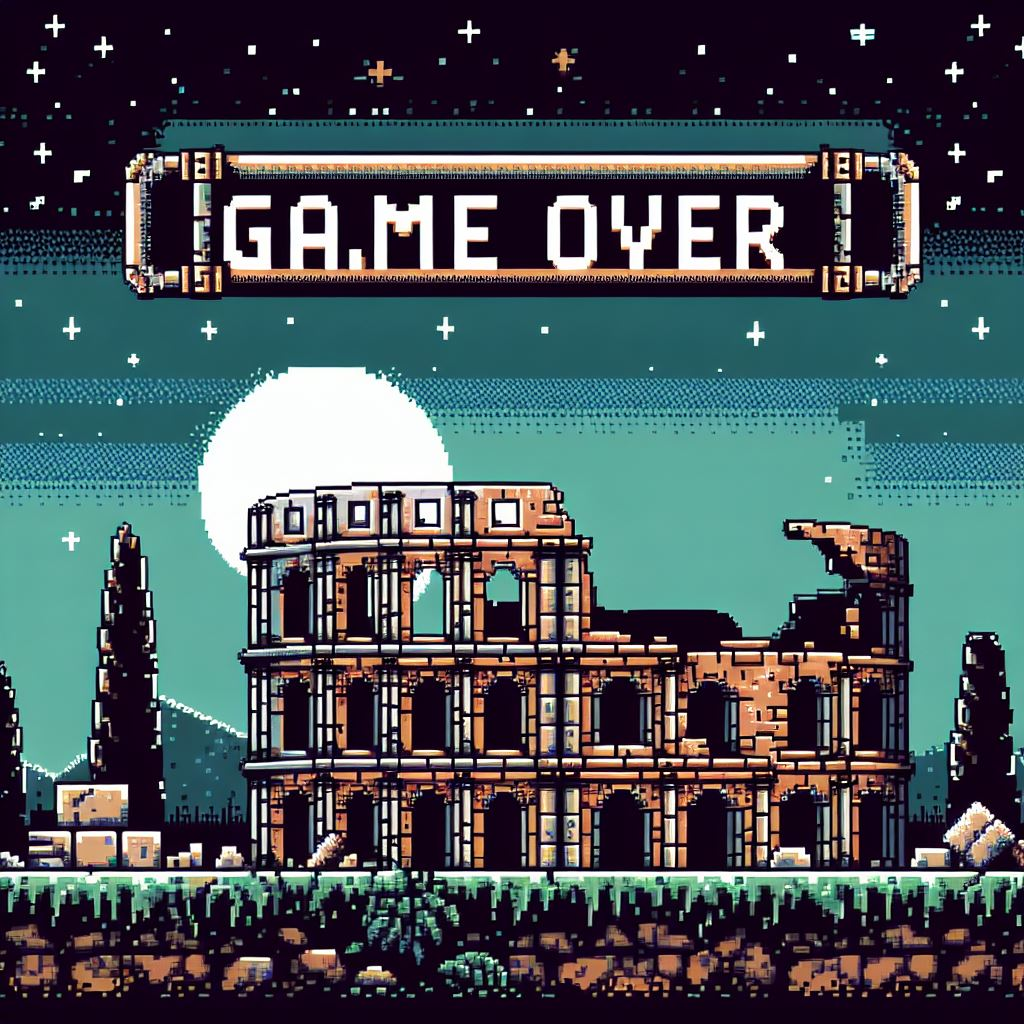
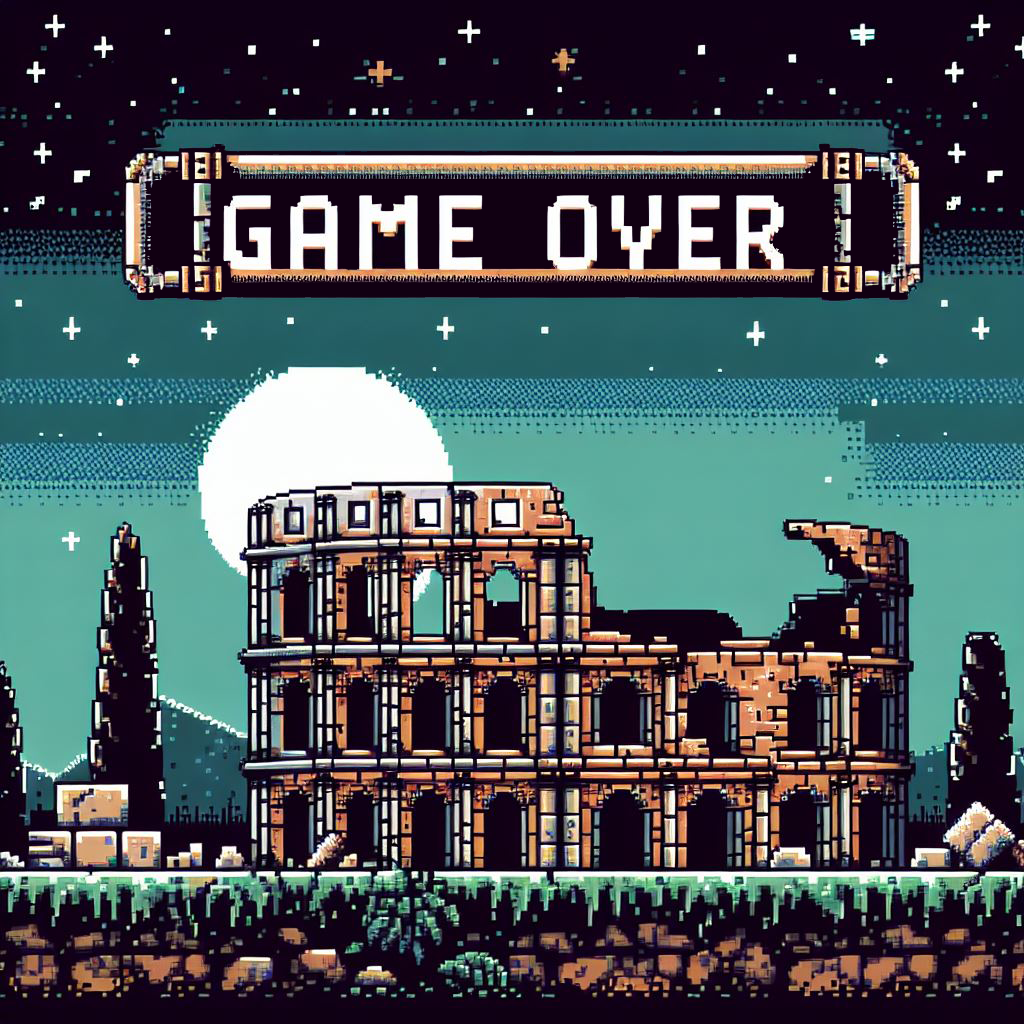
gameoverpane

Changed region(s): [[0.3438, 0.1875, 0.5, 0.2812]]

diff --git a/src/application/Main.java b/src/application/Main.java
@@ -5,6 +5,7 @@ import javafx.stage.Stage;
 import java.util.ArrayList;
 import java.util.List;
 
+import SPane.GameOverPane;
 import SPane.StartPane;
 import SPane.TurnBasePane;
 import javafx.application.Application;
@@ -18,22 +19,6 @@ import enemy.IceQueen;
 
 
 public class Main extends Application{
-	/*private HashMap<KeyCode,Boolean> keys = new HashMap<KeyCode,Boolean>();
-	private Pane appRoot = new Pane();
-	private Pane gameRoot = new Pane();
-	private Pane uiRoot = new Pane();
-	private boolean isJump;
-	private Node player;
-	private int levelWidth;
-	private Node Door;
-	private int Score;
-	private Text Score_on_screne;
-	private ArrayList<Node> platform = new ArrayList<Node>();
-	private ArrayList<ArrayList<Node>> UI = new ArrayList<ArrayList<Node>>();
-	private Point2D playerVelocity = new Point2D(0,0);
-	private int Round = 0;
-	private int temp_hp = 3;//*/
-
 	public void start(Stage primaryStage)  throws Exception {
 		/*
 		StartPane startPane = (StartPane) StartPane.getPane();
@@ -47,7 +32,7 @@ public class Main extends Application{
         // Request focus for the StartPane
         startPane.requestFocus();
         */
-		
+		/*
 		Player player = new Knight();
 		List<Enemy> enemies = new ArrayList<Enemy>();
 		Enemy BeastMaster = new BeastMaster();
@@ -63,209 +48,27 @@ public class Main extends Application{
         primaryStage.setScene(turnbaseScene);
         primaryStage.show();
         turnbasePane.requestFocus();
-        
-        
+        */
+		/*
+		GameOverPane gameoverPane = new GameOverPane();
+		Scene gameoverscene = new Scene (gameoverPane , 1280 ,720);
+		primaryStage.setTitle("Colosseum");
+        primaryStage.setResizable(false);
+        primaryStage.setScene(gameoverscene);
+        primaryStage.show();
+        gameoverPane.requestFocus();
+        */
+        GameOverPane gameOverPane = new GameOverPane(primaryStage);
+        Scene gameOverScene = new Scene(gameOverPane, 1280, 720);
+        primaryStage.setScene(gameOverScene); // แสดง GameOverPane
+        primaryStage.setTitle("Colosseum");
+        primaryStage.setResizable(false);
+        primaryStage.show();
+       // startPane.requestFocus();
         
 	}
 	public static void main(String[] args) {
 		launch(args);
 	}
-	/*private void clear() {
-		gameRoot.getChildren().clear();
-		platform.clear();
-		uiRoot.getChildren().clear();
-		UI.clear();
- 		appRoot.getChildren().clear();
-	}
-	private void update() {
-		if (isPressed(KeyCode.SPACE) && player.getTranslateY()  >=5) {
-			jumpPlayer();
-		}
-		if (isPressed(KeyCode.LEFT) && player.getTranslateX() >= 5) {
-			movePlayerX(-5);
-		}
-		if (isPressed(KeyCode.RIGHT) && player.getTranslateX() + 40  <= levelWidth - 5) {
-			movePlayerX(5);
-		}
-		if (isPressed(KeyCode.Z)) {
-			//Do damage
-			setScore(getScore()+1);
-			editUi(1);
-		}
-		if (isPressed(KeyCode.E) && player.getBoundsInParent().intersects(getDoor().getBoundsInParent())) {
-			clear();
-			setRound(getRound() + 1);
-			if (getRound() == 2) {
-				//Goto หน้าบอส
-			}else {
-				initContent(getRound());
-			}
-		}
-		if (playerVelocity.getY() < 10) {
-			playerVelocity = playerVelocity.add(0,1);
-		}
-		movePlayerY((int)playerVelocity.getY());
-	}
-	private boolean isPressed(KeyCode key) {
-		return keys.getOrDefault(key, false);
-	}
-	private void doDamage(Node player,Node Enemy) {
-		//change Node to class of each 
-	}
-	private void movePlayerX(int value) {
-		boolean moveRight = value > 0;
-		for (int i = 0;i<Math.abs(value);i++) {
-			for (Node pt:platform) {
-				if (player.getBoundsInParent().intersects(pt.getBoundsInParent())) {
-					if (moveRight) {
-						if (player.getTranslateX() + 40 == pt.getTranslateX()) {
-							return;
-						}
-					}else {
-						if (player.getTranslateX() == pt.getTranslateX() + 60) {
-							return;
-						}
-					}
-				}
-			}
-			player.setTranslateX(player.getTranslateX() + (moveRight ? 1:-1)); // if moveRight set translate x to oldX + 1 or oldX -1 when moveLeft 
-			
-		}
-	}
-	private void movePlayerY(int value) {
-		boolean moveDown = value > 0; // - is mean up + is mean down
-		for (int i = 0;i<Math.abs(value);i++) {
-			for (Node pt:platform) {
-				if (player.getBoundsInParent().intersects(pt.getBoundsInParent())) {
-					if (moveDown) {
-						if (player.getTranslateY() + 40 == pt.getTranslateY()) {
-							player.setTranslateY(player.getTranslateY() - 1);
-							setJump(false);
-							return;
-						}
-					}else {
-						if (player.getTranslateY() == pt.getTranslateY() + 60) {
-							return;
-						}
-					}
-				}
-			}
-			player.setTranslateY(player.getTranslateY() + (moveDown ? 1:-1)); // if moveRight set translate x to oldX + 1 or oldX -1 when moveLeft 
-		}//777
-	}
-	private void jumpPlayer() {
-		if (!isJump) {
-			playerVelocity = playerVelocity.add(0,-30);
-			setJump(true); //prohibit to double jump
-		}
-	}
-	private void initContent(int level) {
-		Rectangle Bg = new Rectangle(1280,720);
-		Bg.setFill(Color.LIGHTYELLOW);
-		levelWidth = DataLevel.Level1[level].length() * 60;
-		String[] arr;
-		if (level == 0) {
-			arr = DataLevel.Level1;
-		}else {
-			arr = DataLevel.Level2;
-		}
- 		for (int i = 0 ;i<arr.length;i++) {
-			String line = arr[i];
-			for (int j = 0;j<line.length();j++) {
-				if (line.charAt(j) == '1') {
-					Node pt = this.CreateEntity(j*60, i*60, 60, 60, Color.BROWN,gameRoot);
-					platform.add(pt);
-				}
-				else if (line.charAt(j) == '2') {
-					Node door = CreateEntity(j*60, i*60, 60, 60, Color.BLACK,gameRoot);
-					setDoor(door);
-					platform.add(door);
-				}
-			}
-		}
-		initUi();
-		gameRoot.setLayoutX(0); //reset มุมกล้อง
-	    gameRoot.setLayoutY(0); //reset มุมกล้อง 
-		player = this.CreateEntity(0, 600, 40, 40, Color.BLUE,gameRoot);
-		player.translateXProperty().addListener((obs,old,newValue)->{
-			int offset = newValue.intValue();
-			if (offset > 640 && offset < levelWidth - 640) {
-				gameRoot.setLayoutX(-(offset-640));
-			}
-		});
-		appRoot.getChildren().addAll(Bg,gameRoot,uiRoot);
-	}
-	private void initUi() {
-		ArrayList<Node> health = new ArrayList<Node>();
-		int hp = (getRound() == 0 ? 2:3);// real is hp = player.gethp;
-		for (int i = 0;i<hp;i++) {
-			Node bar = CreateEntity(20 + (10*i*5),10,30,30,Color.RED,uiRoot);
-			health.add(bar);
-		}
-		UI.add(health);
-		Score_on_screne = Scoreboard();
-		uiRoot.getChildren().add(Score_on_screne);
-	}
-	private Text Scoreboard() {
-		Text t = new Text("Score: " + Integer.toString(getScore()));
-		t.setFont(new Font(22));
-		t.prefHeight(40);
-		t.prefWidth(40);
-		t.setTranslateX(1180);
-		t.setTranslateY(30);
-		return t;
-	}
-	private void editUi(int idx) { // idx indicate behavior of this method
-		if (idx == 0) {
-			if (temp_hp != 0) {
-				UI.get(idx).removeLast();
-				uiRoot.getChildren().removeFirst();
-			}else {
-				//บอกว่า player ตายแล้วก็ขึ้นว่า แพ้แล้วไปหน้า start
-			}
-		}else {
-			Score_on_screne.setText("Score: "+Integer.toString(getScore()));
-		}
-	}
-	private Node CreateEntity(int x,int y,int w,int h,Color color,Pane p) {
-		Rectangle ob = new Rectangle(w,h);
-		ob.setTranslateX(x);
-		ob.setTranslateY(y);
-		
-		ob.setFill(color);
-		p.getChildren().add(ob);
-		return ob;
-	}
-	
-	public Node getPlayer() {
-		return player;
-	}
-	public void setPlayer(Node player) {
-		this.player = player;
-	}
-	public boolean isJump() {
-		return isJump;
-	}
-	public void setJump(boolean isJump) {
-		this.isJump = isJump;
-	}
-	public Node getDoor() {
-		return Door;
-	}
-	public void setDoor(Node door) {
-		Door = door;
-	}
-	public int getRound() {
-		return Round;
-	}
-	public void setRound(int round) {
-		Round = round;
-	}
-	public int getScore() {
-		return Score;
-	}
-	public void setScore(int score) {
-		Score = score;
-	}
-	*/
 }
+	

diff --git a/src/SPane/GameOverPane.java b/src/SPane/GameOverPane.java
@@ -1,11 +1,14 @@
 package SPane;
 
+import application.Main;
+import javafx.scene.Scene;
 import javafx.scene.image.Image;
 import javafx.scene.image.ImageView;
 import javafx.scene.layout.Pane;
+import javafx.stage.Stage;
 
 public class GameOverPane extends Pane{
-	public GameOverPane() {
+	public GameOverPane(Stage primaryStage) {
 		Image Background = null;
 	    try {
 	        String classLoaderPath = ClassLoader.getSystemResource("GameOver.png").toString();
@@ -28,8 +31,28 @@ public class GameOverPane extends Pane{
 	        System.out.println("Not found RestartButton");
 	    }
 	    ImageView restartButton = new ImageView(restartButtonImage);
+	    restartButton.setFitHeight(100); 
+        restartButton.setFitWidth(200); 
+        restartButton.setLayoutX(540); 
+        restartButton.setLayoutY(580); 
+        restartButton.setOnMouseEntered(event -> {
+        	restartButton.setFitHeight(120); 
+            restartButton.setFitWidth(220); 
+            restartButton.setLayoutX(530); 
+            restartButton.setLayoutY(570); 
+	    });
+        restartButton.setOnMouseExited(event -> {
+        	restartButton.setFitHeight(100); 
+            restartButton.setFitWidth(200); 
+            restartButton.setLayoutX(540); 
+            restartButton.setLayoutY(580); 
+	    });
 	    restartButton.setOnMouseClicked(event -> {
-	    	//goto main pain
+	    	//StartPane startPane = new StartPane(); // สร้าง StartPane
+	    	StartPane startPane = (StartPane) StartPane.getPane();
+	    	Scene startScene = new Scene(startPane, 1280, 720); // สร้าง Scene
+            primaryStage.setScene(startScene); // เปลี่ยน Scene เป็น StartPane
+            startPane.requestFocus();
 	    });
 	    this.getChildren().add(restartButton);
 	}
